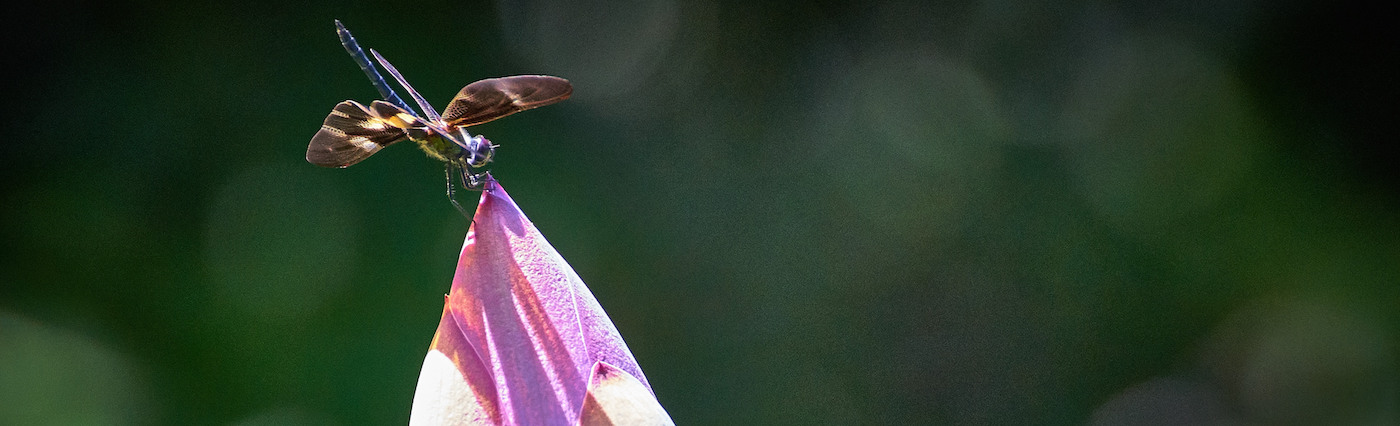
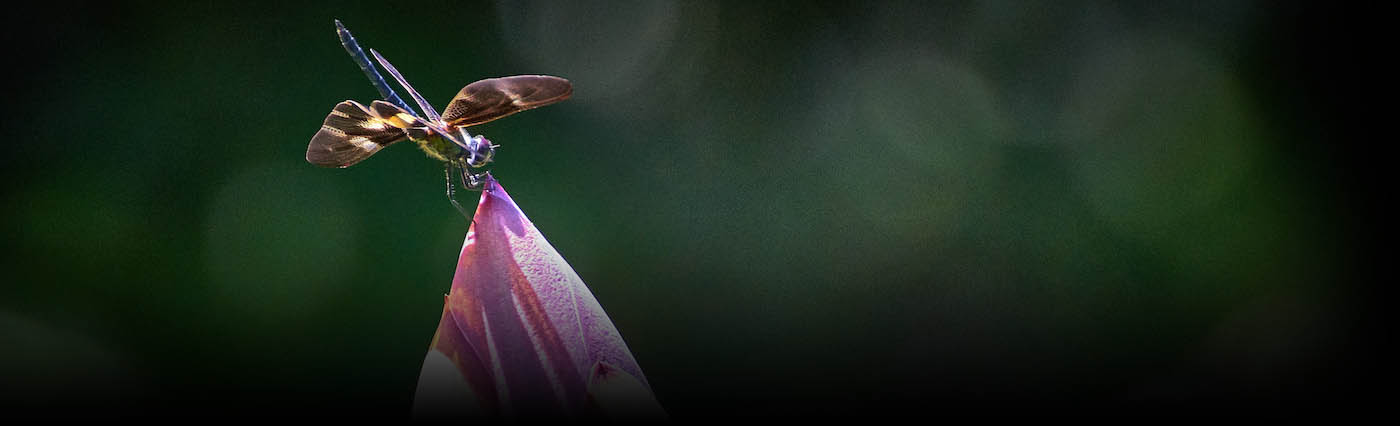
hdr change

diff --git a/assets/css/style.scss b/assets/css/style.scss
@@ -5,4 +5,6 @@
 
 .page-header {
 	background-image: url("/img/flyHdr.jpg")
+	background-repeat: no-repeat
+	background-color: #000000
 }
